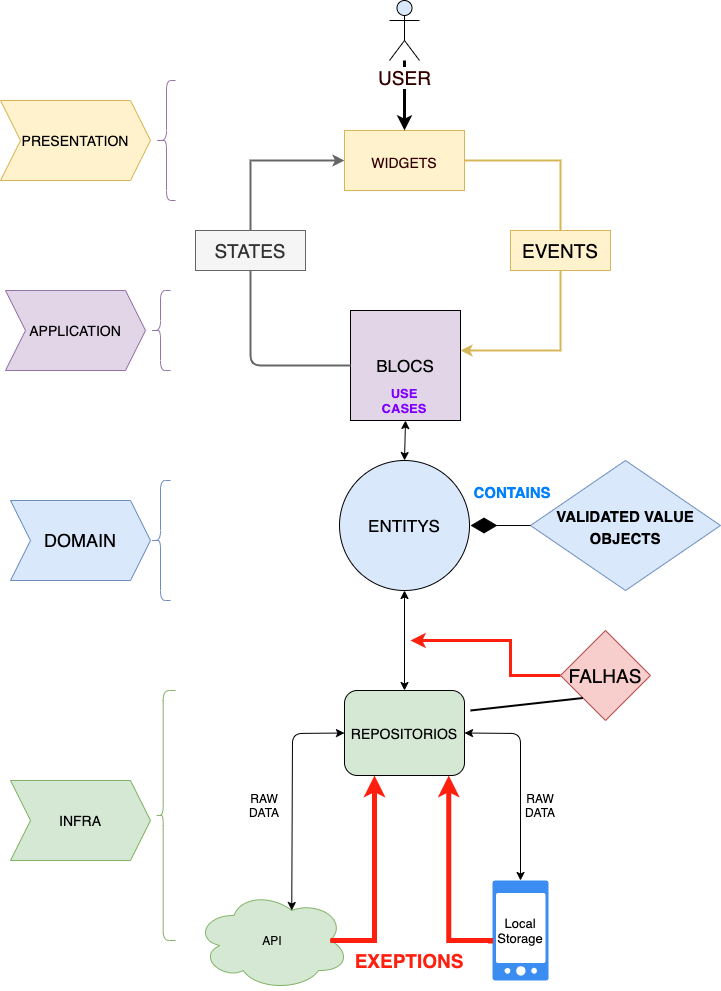
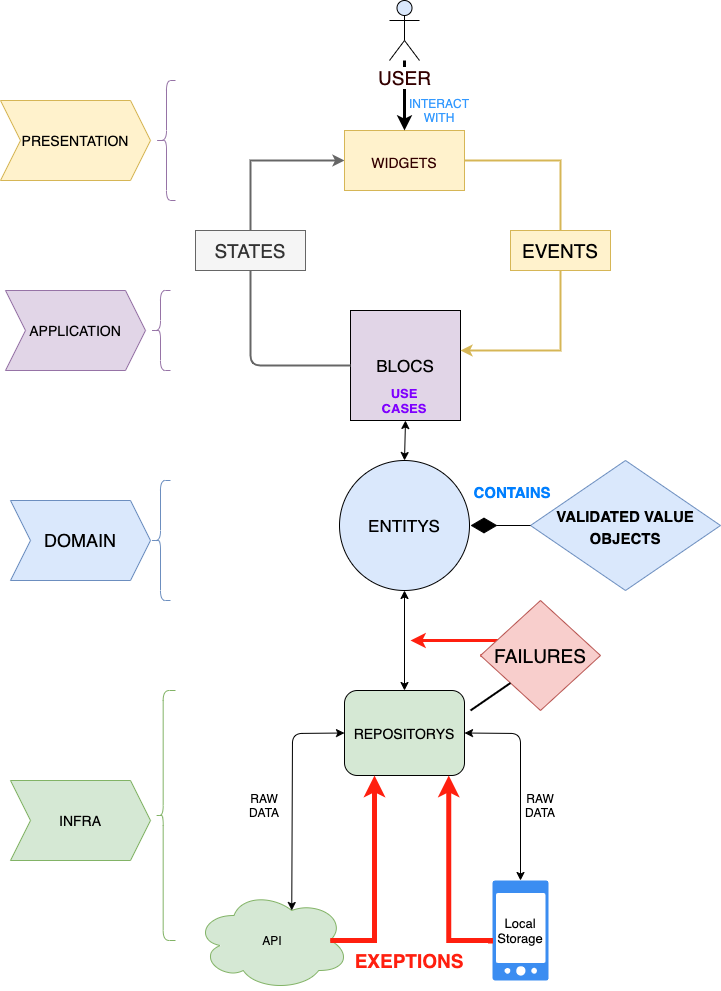
.

Changed region(s): [[0.6408, 0.6054, 0.9154, 0.7265], [0.4882, 0.7265, 0.6408, 0.7568], [0.5798, 0.0908, 0.6408, 0.1211]]

diff --git a/README.md b/README.md
@@ -5,4 +5,7 @@ A project using DDD/Bloc/RxDart for studing cases.
 ![Login Page](https://github.com/eddycn3/mobile-meu-avaliador-preferido/blob/master/app_images/login.png)
 
 # ARCHITECTURE
+
 ![Login Page](https://github.com/eddycn3/mobile-meu-avaliador-preferido/blob/master/app_images/app_architecture.png)
+
+based on @ResoDev diagramn
